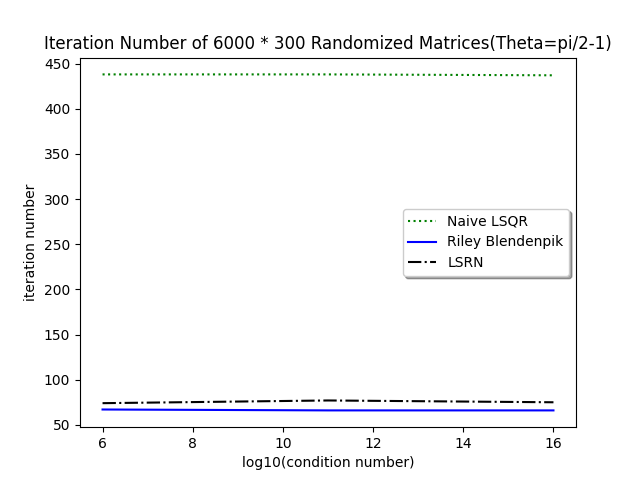
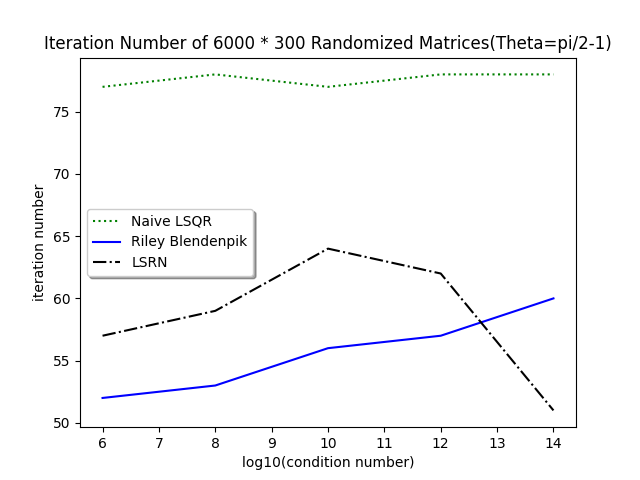
new blendenpik (uses QR)

diff --git a/riley/protomodules/blendenpik.py b/riley/protomodules/blendenpik.py
@@ -1,0 +1,128 @@
+import numpy as np
+from scipy.sparse import linalg as sparla
+import scipy as sp
+from scipy.linalg import lapack
+from scipy.linalg import solve_triangular, qr as qr_factorize
+from scipy.fft import dct
+
+
+def apply_srct(r, e, mat, perm=None):
+    """
+    Apply a subsampled randomized cosine transform (SRCT) to the columns
+    of the ndarray mat. The transform is defined by data (r, e).
+
+    Parameters
+    ----------
+    r : ndarray
+        The random restriction used in the SRCT. The entries of "r" must
+        be unique integers between 0 and mat.shape[0] (exclusive).
+    e : ndarray
+        The vector of signs used in the SRCT; e.size == mat.shape[0].
+    mat : ndarray
+        The operand for the embedding. If mat.ndim == 1, then simply apply
+        the SRCT to mat as a vector.
+    perm : ndarray
+        permutation of range(mat.shape[0]).
+
+    Returns
+    -------
+    mat : ndarray
+        The transformed input.
+    """
+    if mat.ndim > 1:
+        if perm is not None:
+            mat = mat[perm, :]
+        mat = mat * e[:, None]
+        mat = dct(mat, axis=0, norm='ortho')
+        mat = mat[r, :]
+    else:
+        if perm is not None:
+            mat = mat[perm]
+        mat = mat * e
+        mat = dct(mat, norm='ortho')
+        mat = mat[r]
+    return mat
+
+
+def srct_precond(A, d, reg=1e-6):
+    n, m = A.shape
+    r = np.random.choice(n, size=d, replace=False)
+    e = np.random.rand(n)
+    e[e > 0.5] = 1.0
+    e[e != 1] = -1.0
+    e *= np.sqrt(n / d)
+
+    def srft(mat):
+        return apply_srct(r, e, mat, None)
+
+    S = sparla.LinearOperator(shape=(d, n), matvec=srft, matmat=srft)
+    Aske = S @ A
+    try:
+        R = qr_factorize(Aske, mode='economic')[1]
+    except sp.linalg.LinAlgError:
+        Aske = np.row_stack((Aske, reg*np.eye(n)))
+        R = qr_factorize(Aske, mode='economic')[1]
+    return R, (r, e)
+
+
+def blendenpik_srct(A, b, d, tol, maxit):
+    """
+    Run preconditioned LSQR to obtain an approximate solution to
+        min{ || A @ x - b ||_2 : x in R^m }
+    where A.shape = (n, m) has n >> m, so the problem is over-determined. We
+    get the preconditioner by applying a subsampled randomized cosine transform
+    (an SRCT) A. The SRCT operation effectively embeds the range of A (which is
+    an m-dimensional subspace in R^n) into an m-dimensional subspace of R^d.
+    Parameters
+    ----------
+    A : ndarray
+        Data matrix with n rows and m columns. Columns are presumed linearly
+        independent (for now).
+    b : ndarray
+        Right-hand-side b.shape = (n,).
+    d : int
+        The embedding dimension. Theory suggests taking d \approx m * log m
+        to ensure the randomly-constructed preconditioner is very effective.
+    tol : float
+        Must be positive. Stopping criteria for LSQR.
+    maxit : int
+        Must be positive. Stopping criteria for LSQR.
+    Returns
+    -------
+    x : ndarray
+        Approximate solution from LSQR. x.shape = (m,).
+    residuals: ndarray
+        Initialized to the vector of all -1's. Any nonnegative entries are the
+        residuals of the least-squares normal equations, at the corresponding
+        iteration of PCG.
+    (r, e) : ndarrays
+        Define the SRCT used when sketching the matrix A.
+    """
+    n, m = A.shape  # n >> m
+    R, (r, e) = srct_precond(A, d, 1e-6)
+    # rhs = A.T @ b
+    # x = np.zeros(m)
+    # residuals = -np.ones(maxit)
+    # At = np.ascontiguousarray(A.T)
+    # dense_pcg(At, rhs, x, L, tol, maxit, residuals, 0.0)
+
+    def p_mv(vec):
+        # return y = inv(R) @ vec
+        return solve_triangular(R, vec, lower=False)
+
+    def p_rmv(vec):
+        return solve_triangular(R, vec, 'T', lower=False)
+
+    def mv(vec):
+        return A @ (p_mv(vec))
+
+    def rmv(vec):
+        return p_rmv(A.T @ vec)
+
+    A_precond = sparla.LinearOperator(shape=(n, m), matvec=mv, rmatvec=rmv)
+
+    result = sparla.lsqr(A_precond, b, atol=tol, btol=tol, iter_lim=maxit)[:8]
+    x = p_mv(result[0])
+    flag = result[1]
+    iternum = result[2]
+    return x, flag, iternum, (r, e)

diff --git a/riley/scripts/large_test_theta_conda_blendsqr.py b/riley/scripts/large_test_theta_conda_blendsqr.py
@@ -4,7 +4,8 @@ import numpy as np
 from numpy.linalg import norm
 from scipy.sparse.linalg import lsqr
 
-from Haoyun.randomized_least_square_solver.Blendenpik.Riley_Blen_Scipy_LSQR import blendenpik_srct_scipy_lsqr
+#from Haoyun.randomized_least_square_solver.Blendenpik.Riley_Blen_Scipy_LSQR import blendenpik_srct_scipy_lsqr
+from riley.protomodules.blendenpik import blendenpik_srct as blendenpik_srct_scipy_lsqr
 from Haoyun.randomized_least_square_solver.LSRN.LSRN_over import LSRN_over
 from Haoyun.randomized_least_square_solver.Test.test_matrix_generator import overdetermined_ls_test_matrix_generator
 
@@ -12,8 +13,8 @@ import seaborn as sns
 import matplotlib.pyplot as plt
 
 # cond_num_list = 10 ** np.arange(6)
-cond_num_list = 10 ** np.linspace(6, 16, 3)
-theta_list = 2 ** (-np.linspace(53, 0, 6))
+cond_num_list = 10 ** np.linspace(6, 14, 5)
+theta_list = 2 ** (-np.linspace(53, 0, 4))
 
 cond_len = len(cond_num_list)
 theta_list_len = len(theta_list)
@@ -44,8 +45,8 @@ for cond_num_index in np.arange(cond_len):
     for theta_index in np.arange(theta_list_len):
         theta = theta_list[theta_index]
         for matrix in np.arange(matrix_num):
-            A, x, b = overdetermined_ls_test_matrix_generator(m=6000,
-                                                              n=300,
+            A, x, b = overdetermined_ls_test_matrix_generator(m=6000//5,
+                                                              n=300//5,
                                                               theta=theta,
                                                               seednum=100 * (matrix + 1) + 10 * (
                                                                       matrix + 2) + matrix + 3,
@@ -115,7 +116,7 @@ for cond_num_index in np.arange(cond_len):
             tol = 1e-14
 
             t8 = perf_counter()
-            x5, flag, iternum, (r, e) = blendenpik_srct_scipy_lsqr(A, b, d, tol, 2000)
+            x5, flag, iternum, rep = blendenpik_srct_scipy_lsqr(A, b, d, tol, 2000)
             t9 = perf_counter() - t8
 
             Riley_Blen_iternum_matrix[cond_num_index, theta_index] += iternum
@@ -204,6 +205,7 @@ plt.ylabel('log10(condition number)')
 plt.savefig('HeatMap/Theta/Normal Equation Error/Riley Blendenpik HeatMap of Normal Equation Error.png')
 plt.show()
 
+"""
 # The heat heap of averaged relative error of Naive LSQR of five randomized m * m/20 matrix.
 # log10(condition number) ranges from 1 to 6 and m/1000 ranges from 1 to 6.
 
@@ -236,6 +238,7 @@ plt.xlabel('log2(pi/2-theta)')
 plt.ylabel('log10(condition number)')
 plt.savefig('HeatMap/Theta/Relative Error/Riley Blen HeatMap Relative Error.png')
 plt.show()
+"""
 
 ##################
 #### 2D Plot #####
@@ -297,6 +300,7 @@ plt.legend(loc='best', shadow=True)
 plt.savefig('2D Plot/Theta/Normal Equation Error/Fixed Condition number.png')
 plt.show()
 
+"""
 # Plot of relative error of different algorithms versus log2(theta)
 
 log2_theta_list = np.log2(theta_list)
@@ -324,3 +328,4 @@ plt.title('Relative Error of 6000 * 300 Randomized Matrices(Theta=pi/2-1)')
 plt.legend(loc='best', shadow=True)
 plt.savefig('2D Plot/Theta/Relative Error/Fixed Dimension.png')
 plt.show()
+"""

diff --git a/riley/scripts/test_blendenpik.py b/riley/scripts/test_blendenpik.py
@@ -1,0 +1,42 @@
+import unittest
+import numpy as np
+from riley.protomodules.blendenpik import blendenpik_srct, srct_precond
+
+
+class TestLinSys(unittest.TestCase):
+
+    def test_blendenpik_lsqr(self):
+        np.random.seed(0)
+        n, m = 1000, 50
+        d = 3*50
+        A = np.random.randn(n, m)
+        x0 = np.random.randn(m)
+        b0 = A @ x0
+        b = b0 + 0.05 * np.random.randn(n)
+        x_bp, flag, iternum, (r, e, p) = blendenpik_srct(A, b, d, 1e-8, m)
+        self.assertLessEqual(iternum / m, 0.85)
+        x_np = np.linalg.lstsq(A, b)[0]
+        self.assertAlmostEqual(np.linalg.norm(x_bp - x_np), 0.0, places=4)
+
+
+class TestSketching(unittest.TestCase):
+
+    def test_srct_approx_chol(self):
+        np.random.seed(0)
+        n = 1000
+        m = 10
+        d = int(10 * m * np.log(m))
+        num_trials = 10
+        errs = np.zeros(num_trials)
+        for t in range(num_trials):
+            A = np.random.randn(n, m)
+            A *= 100 * np.random.rand(m)
+            G = A.T @ A
+            R, (r, e, p) = srct_precond(A, d, True, 1e-8)
+            R[np.tril_indices(m, k=-1)] = 0.0
+            Rinv = np.linalg.inv(R)
+            Gprecond = Rinv.T @ G @ Rinv
+            delta = Gprecond - np.eye(m)
+            err = np.linalg.norm(delta, ord=2)  # operator norm
+            errs[t] = err
+        assert np.mean(errs) <= 0.7  # a 0.3 embedding
